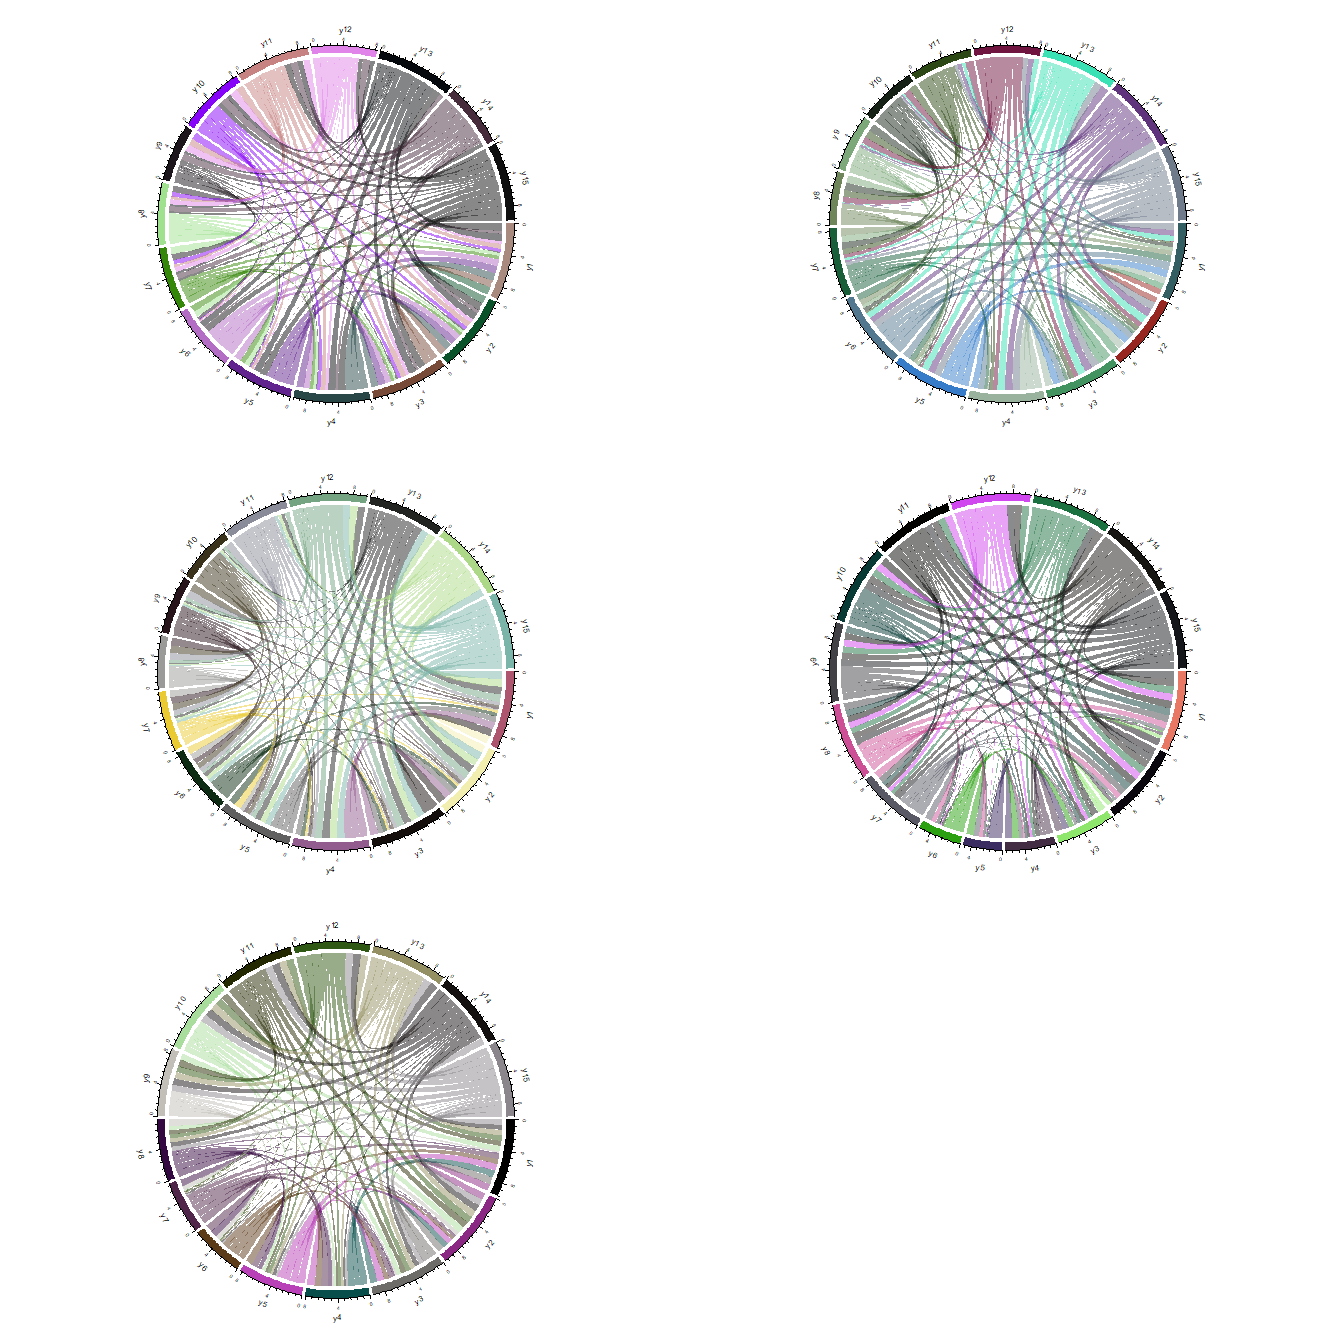
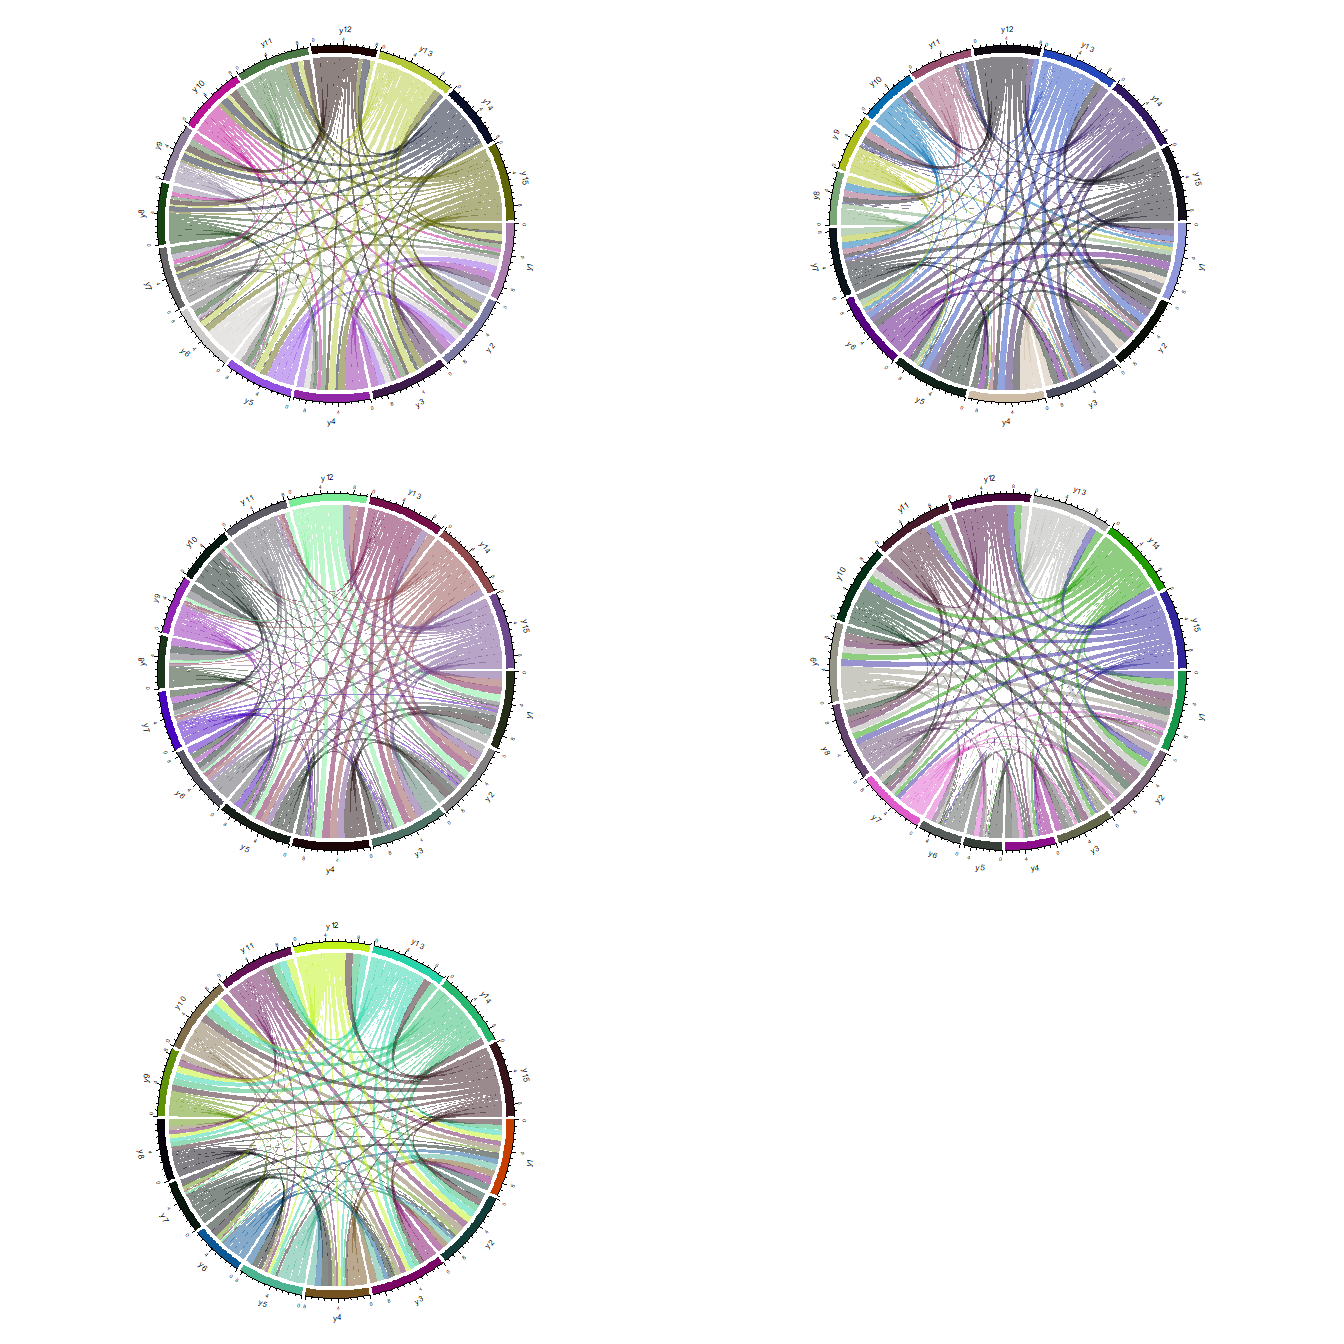
Looking at the interaction matrices for all iterations

diff --git a/testingHMSCv2/reports/20190321-Interaction_matrices.md b/testingHMSCv2/reports/20190321-Interaction_matrices.md
@@ -108,13 +108,11 @@ chordDiagram(assoMat[, , 1, 1], symmetric = TRUE)
 When we want to look at the matrix, I am confused about the siteMean vs plotMean. Keep in mind that this site mean is using only one of the iterations.
 
 ``` r
+for(i in 1:5){
+  assoMat <- corRandomEff(modelfile[[i]])
 siteMean <- apply(assoMat[ , , , 1], 1:2, mean)
 #plotMean <- apply(assoMat[ , , , 2], 1:2, mean)
-```
 
-I took this example from the vignette, and I am not sure where the 0.4 value comes from.
-
-``` r
 siteDrawCol <- matrix(NA, nrow = nrow(siteMean), ncol = ncol(siteMean))
 siteDrawCol[which(siteMean > 0.4, arr.ind=TRUE)]<-"red"
 siteDrawCol[which(siteMean < -0.4, arr.ind=TRUE)]<-"blue"
@@ -123,11 +121,7 @@ siteDraw <- siteDrawCol
 siteDraw[which(!is.na(siteDraw), arr.ind = TRUE)] <- 0
 siteDraw[which(is.na(siteDraw), arr.ind = TRUE)] <- 1
 siteDraw <- matrix(as.numeric(siteDraw), nrow = nrow(siteMean), ncol = ncol(siteMean))
-```
 
-In this case, the figure to the right is what would be our simulation matrix of interactions, **A**.
-
-``` r
 par(mfrow=c(1,2))
 Colour <- colorRampPalette(c("blue", "white", "red"))(200)
 corrplot(siteMean, method = "color", col = Colour, type = "lower",
@@ -135,6 +129,7 @@ diag = FALSE, p.mat = siteDraw, tl.srt = 45)
 
 corrplot(A, method = "color", col = Colour, type = "lower",
 diag = FALSE, p.mat = siteDraw, tl.srt = 45)
+}
 ```
 
-![](20190321-Interaction_matrices_files/figure-markdown_github/unnamed-chunk-7-1.png)
+![](20190321-Interaction_matrices_files/figure-markdown_github/unnamed-chunk-5-1.png)![](20190321-Interaction_matrices_files/figure-markdown_github/unnamed-chunk-5-2.png)![](20190321-Interaction_matrices_files/figure-markdown_github/unnamed-chunk-5-3.png)![](20190321-Interaction_matrices_files/figure-markdown_github/unnamed-chunk-5-4.png)![](20190321-Interaction_matrices_files/figure-markdown_github/unnamed-chunk-5-5.png)
